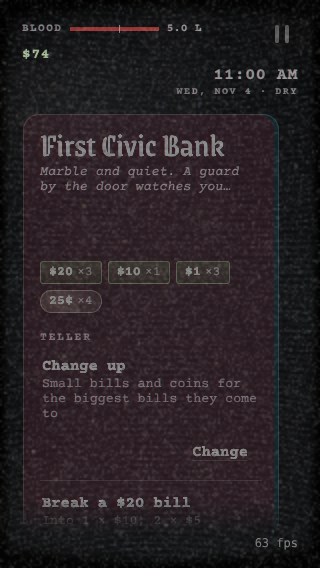
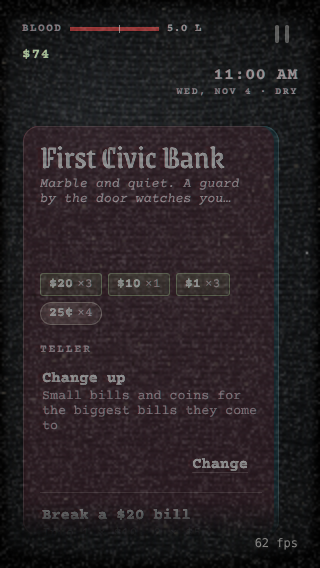
v0.59: deep polish round 5 (UI fixes)
Open card/status capped so fight options keep room (portrait and
landscape); shop card starts below a tall status in portrait and right
of it in landscape; 'They're out cold' title and Search tab default;
What's new capped at five with a fade and a real OK button; KO hint
contrast; log header covers a cut line; consistent hours in Where to;
bank and stats wording.

Claude-Session: https://claude.ai/code/session_01EGV51zaKvFQRupvCcXSb6T

diff --git a/src/game/game.ts b/src/game/game.ts
@@ -1987,7 +1987,7 @@ export class Game {
     } else if (place === 'records') {
       const mine = this.ownId();
       body = open
-        ? `<ul class="shop-list">${li('State ID', mine ? `You have one: ${mine.detail}.` : `Your name, your photo, your address (more or less). ${money(ID_FEE * 100)}.`, btn('records', 'id', money(ID_FEE * 100), (mine && 'You have one') || (c < ID_FEE * 100 && 'Not enough cash')))}</ul>` +
+        ? `<ul class="shop-list">${li('State ID', mine ? `You have one: ${mine.detail}.` : 'Your name, your photo, your address (more or less).', btn('records', 'id', money(ID_FEE * 100), (mine && 'You have one') || (c < ID_FEE * 100 && 'Not enough cash')))}</ul>` +
           `<p class="shop-broke">With your own ID you can open a bank account, sell to and buy from the pawn shop, and buy drink, without anyone looking at you twice.</p>`
         : `<p class="shop-closed">The doors are locked. Open weekdays, 9 to 4.</p>`;
     } else if (place === 'liquor') {
@@ -2032,8 +2032,8 @@ export class Game {
           (!acct
             ? li('Open an account', mine ? 'Free. Keep your money where nobody can take it off you.' : 'You need your own ID: the City Records Office makes them.', btn('bank', 'open', 'Open', !mine && 'Need your own ID'))
             : li(`Balance: ${money(acct.cents)}`, 'Deposit what you carry; take some out when you need it.', btn('bank', 'deposit', 'Deposit all', (!c && 'No cash on you') || (!mine && 'Need your own ID'))) +
-              `<li class="bank-amt"><div><b>An amount</b><small>Type it in, then deposit it or take it out.</small></div><span class="li-btns"><label class="amt"><span>$</span><input id="bank-amt" type="number" inputmode="decimal" min="0" step="0.01" placeholder="0.00" aria-label="Amount in dollars"></label>${btn('bank', 'd:amt', 'Deposit', (!c && 'No cash on you') || (!mine && 'Need your ID'))}${btn('bank', 'w:amt', 'Withdraw', (!acct.cents && 'Empty') || (!mine && 'Need your ID'))}</span></li>` +
-              li('Withdraw', '$20, $100, or everything.', [2000, 10000].map((v) => btn('bank', `w:${v}`, money(v), (acct.cents < v && 'Not that much') || (!mine && 'Need your ID'))).join('') + btn('bank', 'w:all', 'All', (!acct.cents && 'Empty') || (!mine && 'Need your ID')))) +
+              `<li class="bank-amt"><div><b>An amount</b><small>Type it in, then deposit it or take it out.</small></div><span class="li-btns"><label class="amt"><span>$</span><input id="bank-amt" type="number" inputmode="decimal" min="0" step="0.01" placeholder="0.00" aria-label="Amount in dollars"></label>${btn('bank', 'd:amt', 'Deposit', (!c && 'No cash on you') || (!mine && 'Need your ID'))}${btn('bank', 'w:amt', 'Withdraw', (!acct.cents && 'Nothing in the account') || (!mine && 'Need your ID'))}</span></li>` +
+              li('Withdraw', '$20, $100, or everything.', [2000, 10000].map((v) => btn('bank', `w:${v}`, money(v), (acct.cents < v && 'Balance too low') || (!mine && 'Need your ID'))).join('') + btn('bank', 'w:all', 'All', (!acct.cents && 'Nothing in the account') || (!mine && 'Need your ID')))) +
           `</ul>`;
       } else body = `<p class="shop-closed">The teller windows are dark.</p>`;
       body += `<h3>Lobby</h3><ul class="shop-list">${li('Coin machine', `Turns coins into bills, any hour. Keeps ${COIN_MACHINE_FEE * 100}%.`, btn('bank', 'machine', 'Use', !coins && 'No coins'))}`;
@@ -2099,7 +2099,7 @@ export class Game {
         `<div class="sheet-head"><h2>Where to?</h2>${close}</div><div class="sheet-body places">` +
         PLACES.map(
           (p) =>
-            `<button type="button" class="place ${p.id === this.place ? 'here' : ''}" data-place="${p.id}"><b>${p.name}</b><small>${p.id === this.place ? "You're here" : p.desc}${p.hours && p.id !== this.place ? `<i class="${isOpen(p.hours) ? 'open' : 'shut'}">${hoursText(p.hours)}</i>` : ''}</small></button>`,
+            `<button type="button" class="place ${p.id === this.place ? 'here' : ''}" data-place="${p.id}"><b>${p.name}</b><small>${p.id === this.place ? "You're here" : p.desc}${p.id !== this.place && p.id !== 'street' ? (p.hours ? `<i class="${isOpen(p.hours) ? 'open' : 'shut'}">${hoursText(p.hours)}</i>` : '<i class="open">Open all hours</i>') : ''}</small></button>`,
         ).join('') +
         `</div>`;
       return;
@@ -2276,7 +2276,7 @@ export class Game {
     const now: Record<StatName, [string, string][]> = {
       sneak: [
         ['Ambushes land', sign(ambushBonus(st))],
-        ['Noticed while following', `${pct(noticeRate(st))} as quickly`],
+        ['How fast you’re noticed', noticeRate(st) >= 0.995 ? 'normal' : `−${pct(1 - noticeRate(st))}`],
       ],
       strength: [
         ['Damage from your blows', `+${pct(strengthDamage(st))}`],
@@ -2438,6 +2438,9 @@ export class Game {
       `<div class="enc-conds">${((cs) => (cs.length > 4 ? [...cs.slice(0, 3), `+${cs.length - 3} more`] : cs))(healthConditions(h)).map((c) => `<span class="${/^\+\d+ more$/.test(c) ? 'more' : ''}">${c}</span>`).join('')}</div>` +
       `<div class="you-cash">${money(Math.round(cashOf(this.inventory) * 100))}</div>` +
       this.humanityLine();
+    // Where your status ends, so a shop card starts below it (lots of injuries make it tall).
+    const bottom = this.youEl.hidden ? 0 : Math.round(this.youEl.getBoundingClientRect().bottom - this.view.getBoundingClientRect().top);
+    this.view.style.setProperty('--you-bottom', `${bottom}px`);
   }
 
   /** How far gone you are, once you've started. */

diff --git a/src/style.css b/src/style.css
@@ -2649,7 +2649,11 @@ body.paused #smoke {
    stay clear of the edge tabs. */
 #shop {
   bottom: calc(var(--pad-bot) + 12px);
-  width: min(calc(100% - 64px), 520px);
+}
+@media (orientation: portrait) {
+  #shop {
+    width: min(calc(100% - 64px), 520px);
+  }
 }
 @media (orientation: landscape) and (max-height: 560px) {
   #shop {
@@ -3005,7 +3009,7 @@ body[data-buttons='lines'] .spot-bar {
 @media (max-height: 700px) {
   .shop-head p {
     display: -webkit-box;
-    -webkit-line-clamp: 2;
+    -webkit-line-clamp: 3;
     -webkit-box-orient: vertical;
     overflow: hidden;
     font-size: 12px;
@@ -4301,4 +4305,106 @@ body[data-buttons] #enc .enc-extra button {
   margin: 6px 0 2px;
   font-size: 12px;
   color: var(--ink-faint);
+}
+
+/* Opening the card or the status never pushes your options off the screen:
+   they're capped (and scroll inside), and the options keep their room. */
+#enc.facts-open .enc-card,
+#enc.status-open .enc-status {
+  overflow-y: auto;
+  overscroll-behavior: contain;
+}
+#enc.facts-open .enc-card {
+  max-height: 30vh;
+}
+#enc.status-open .enc-status {
+  max-height: 26vh;
+}
+#enc.facts-open.status-open .enc-card {
+  max-height: 22vh;
+}
+#enc.facts-open.status-open .enc-status {
+  max-height: 20vh;
+}
+@media (orientation: portrait) {
+  #enc .enc-card,
+  #enc .enc-status {
+    flex: 0 1 auto;
+    min-height: 0;
+  }
+  #enc .enc-log,
+  #enc:not(.log-open) .enc-log {
+    min-height: 44px;
+  }
+  #enc .enc-actions,
+  #enc:not(.log-open) .enc-actions,
+  #enc.log-open .enc-actions {
+    flex: none;
+    min-height: min(200px, 36vh);
+  }
+}
+@media (orientation: landscape) and (max-height: 560px) {
+  /* (The card shares the left column with the options.) */
+  #enc.facts-open .enc-card {
+    max-height: 24vh;
+  }
+  #enc.facts-open .enc-facts {
+    max-height: none;
+  }
+  /* (Room for the options under it: the "Fight" heading can go.) */
+  #enc.facts-open .enc-title {
+    display: none;
+  }
+  #enc .enc-opts:not(.enc-extra) {
+    min-height: 60px;
+  }
+}
+
+/* Portrait: a shop card starts under your status, however tall it's grown. */
+@media (orientation: portrait) {
+  #game.in-shop #shop {
+    top: max(calc(var(--pad-top) + 108px), calc(var(--you-bottom, 0px) + 10px));
+  }
+}
+/* Landscape: the shop card keeps to the right of your status (injuries, cash). */
+@media (orientation: landscape) and (max-height: 560px) {
+  #shop,
+  #game.in-shop #shop {
+    left: calc(var(--pad-x-l) + 312px);
+    right: 64px;
+    width: auto;
+    transform: none;
+  }
+}
+
+/* What's new: a fade says there's more below; OK is a button. */
+.news {
+  -webkit-mask-image: linear-gradient(to bottom, #000 calc(100% - 28px), transparent);
+  mask-image: linear-gradient(to bottom, #000 calc(100% - 28px), transparent);
+  padding-bottom: 24px;
+}
+.news-more {
+  margin: 14px 0 0;
+  font-size: 12px;
+  font-style: italic;
+  color: var(--ink-faint);
+}
+.news-ok {
+  min-height: 44px;
+  min-width: 120px;
+  padding: 8px 22px;
+  border: 1px solid var(--ink-dim);
+  border-radius: 10px;
+}
+/* The knockout hint: readable over the cracks. */
+#ko-hint {
+  font-size: 13px;
+  letter-spacing: 0.22em;
+  color: var(--ink-dim);
+  text-shadow: 0 0 6px #000, 0 0 2px #000;
+}
+/* The log's "earlier lines" count covers a line cut off under it. */
+.enc-log .log-more {
+  background: rgb(16, 16, 16);
+  box-shadow: 0 6px 6px -2px rgb(16, 16, 16);
 }

diff --git a/src/game/shops.ts b/src/game/shops.ts
@@ -42,7 +42,7 @@ export const PLACES: PlaceInfo[] = [
   {
     id: 'pharmacy',
     name: 'Pharmacy',
-    desc: 'Open all night. Bandages, painkillers, splints.',
+    desc: 'Bandages, painkillers, splints.',
     hours: null,
     blurb: 'Open all night. A fluorescent hum, and a bored clerk behind the plexiglass.',
     indoors: true,
@@ -50,7 +50,7 @@ export const PLACES: PlaceInfo[] = [
   {
     id: 'gas',
     name: 'Nite Owl Gas',
-    desc: 'Open 24/7. Smokes, lighters, first aid, hot coffee.',
+    desc: 'Smokes, lighters, first aid, hot coffee, masks and shades.',
     hours: null,
     blurb: 'Two pumps, one working. Hot dogs turning under a lamp, and a clerk behind scratched glass who has seen it all.',
     indoors: true,
@@ -66,7 +66,7 @@ export const PLACES: PlaceInfo[] = [
   {
     id: 'fence',
     name: 'The alley',
-    desc: 'Someone back there buys anything. Night only.',
+    desc: 'Someone back there buys anything stolen.',
     hours: EVERY(20, 4),
     blurb: 'Behind the laundromat, in the steam from the vents. He keeps his hands in his pockets and his eyes on the street.',
     indoors: false,
@@ -82,7 +82,7 @@ export const PLACES: PlaceInfo[] = [
   {
     id: 'hospital',
     name: 'County General ER',
-    desc: 'Open all hours. Stitches, casts, blood. Self-pay, and a long wait.',
+    desc: 'Stitches, casts, blood. Self-pay, and a long wait.',
     hours: null,
     blurb: 'Bright lights, a smell of bleach, rows of bolted chairs. A man holding a towel to his head; a woman asleep sitting up. Triage looks at you without much interest.',
     indoors: true,
@@ -90,7 +90,7 @@ export const PLACES: PlaceInfo[] = [
   {
     id: 'records',
     name: 'City Records Office',
-    desc: 'Get your State ID made. Weekdays.',
+    desc: 'Get your State ID made.',
     hours: WEEKDAYS(9, 16),
     blurb: 'A long room of plastic chairs and a ticket machine. Everyone looks like they have been waiting forever.',
     indoors: true,
@@ -98,7 +98,7 @@ export const PLACES: PlaceInfo[] = [
   {
     id: 'bank',
     name: 'First Civic Bank',
-    desc: 'Change money, and keep it in an account (with ID). Office hours; a coin machine in the lobby.',
+    desc: 'Change money, and keep it in an account (with ID). A coin machine in the lobby, any hour.',
     hours: WEEKDAYS(9, 17, [9, 13]),
     blurb: 'Marble and quiet. A guard by the door watches you come in.',
     indoors: true,

diff --git a/src/ui/menu.ts b/src/ui/menu.ts
@@ -166,10 +166,13 @@ export function createMenu(handlers: MenuHandlers) {
   /** Fill the What's new screen: everything since `since` (or the latest few). */
   const fillNews = (since: string | null) => {
     const idx = since ? CHANGES.findIndex((r) => r.v === since) : -1;
-    const list = idx > 0 ? CHANGES.slice(0, idx) : CHANGES.slice(0, since ? CHANGES.length : 3);
-    $('news').innerHTML = list
-      .map((r) => `<section><h3>v${r.v} <em>${r.date}</em></h3><ul>${r.items.map((i) => `<li>${i}</li>`).join('')}</ul></section>`)
-      .join('');
+    const all = idx > 0 ? CHANGES.slice(0, idx) : CHANGES.slice(0, since ? CHANGES.length : 3);
+    // A long time away: the latest few, and a count of the rest (not thirty screens of it).
+    const list = all.slice(0, 5);
+    const more = all.length - list.length;
+    $('news').innerHTML =
+      list.map((r) => `<section><h3>v${r.v} <em>${r.date}</em></h3><ul>${r.items.map((i) => `<li>${i}</li>`).join('')}</ul></section>`).join('') +
+      (more > 0 ? `<p class="news-more">…and ${more} older update${more > 1 ? 's' : ''} before that.</p>` : '');
   };
   fillNews(null);
   root.querySelectorAll<HTMLElement>('[data-go="news"]').forEach((b) => b.addEventListener('click', () => fillNews(null)));

diff --git a/src/ui/encounterView.ts b/src/ui/encounterView.ts
@@ -7,7 +7,7 @@ const STAGE_TITLE: Record<string, string> = {
   surveil: 'What now?',
   violence: 'What now?',
   combat: 'Fight',
-  helpless: 'Unconscious',
+  helpless: 'They’re out cold',
   yielded: 'They gave up',
 };
 
@@ -249,9 +249,10 @@ export function createEncounterView(root: HTMLElement, onAct: (id: string) => vo
         tabsKey = key;
         // Someone out cold: nothing's open until you choose (violence, or
         // going through their pockets, or leaving).
-        tab = e.stage === 'surveil' || e.stage === 'violence' ? e.stage : e.stage === 'combat' && e.them.out ? null : (cats[0] ?? null);
+        // Out cold: going through their pockets is what most people do next.
+        tab = e.stage === 'surveil' || e.stage === 'violence' ? e.stage : e.stage === 'combat' && e.them.out ? (cats.includes('search') ? 'search' : null) : (cats[0] ?? null);
       }
-      if (tab && !cats.includes(tab)) tab = e.stage === 'combat' && e.them.out ? null : (cats[0] ?? null);
+      if (tab && !cats.includes(tab)) tab = e.stage === 'combat' && e.them.out ? (cats.includes('search') ? 'search' : null) : (cats[0] ?? null);
       drawOptions();
     },
   };

diff --git a/src/core/changelog.ts b/src/core/changelog.ts
@@ -11,6 +11,17 @@ export interface Release {
 
 export const CHANGES: Release[] = [
   {
+    v: '0.59',
+    date: 'Nov 4',
+    items: [
+      'Fight screen on small phones and in landscape: opening the card or your status no longer pushes your options off the screen (they scroll inside instead).',
+      'Shops no longer cover your injuries and cash when you have a lot of them (the ER especially), in portrait or landscape.',
+      'When they’re out cold, the fight says so (“They’re out cold”, not “Unconscious”) and opens on searching them.',
+      'What’s new after a long time away shows the latest five updates, not thirty screens. The knockout hint is easier to read, the log no longer shows a half-cut line under its header, and opening hours read the same way for every place.',
+      'Clearer bank messages (“Balance too low”, “Nothing in the account”).',
+    ],
+  },
+  {
     v: '0.58',
     date: 'Nov 4',
     items: [
